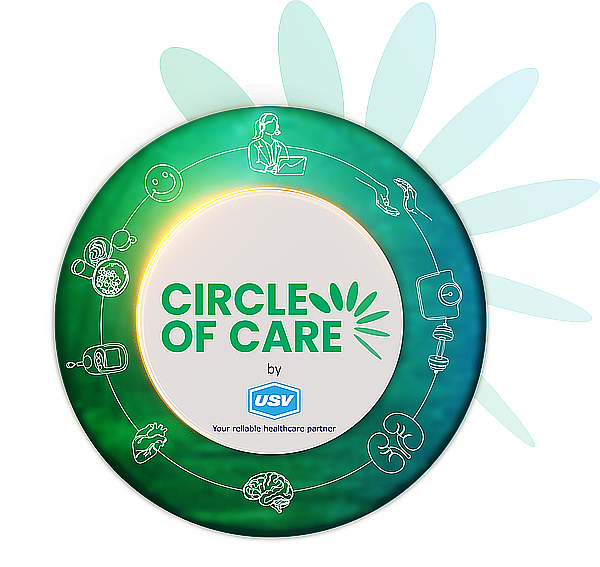
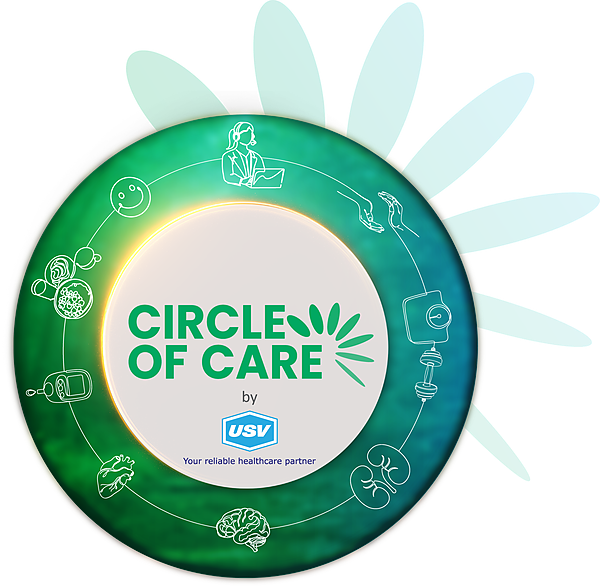
Add files via upload

diff --git a/optimize_images.py b/optimize_images.py
@@ -5,12 +5,19 @@ import os
 Image.MAX_IMAGE_PIXELS = None 
 
 def create_responsive_versions(filename, sizes, sharpen_factor=1.0):
-    """Generates multiple resized versions of an image for srcset with customizable sharpening."""
+    """Generates multiple resized versions of an image for srcset with autocrop and sharpening."""
     if not os.path.exists(filename):
         print(f"File not found: {filename}")
         return
 
-    img = Image.open(filename)
+    img = Image.open(filename).convert("RGBA")
+    
+    # Autocrop transparency to ensure 'fits properly' on web-page
+    bbox = img.getbbox()
+    if bbox:
+        img = img.crop(bbox)
+        print(f"  Autocropped {filename} to {img.size}")
+
     original_size = img.size
     print(f"Processing {filename}: {original_size} (Sharpen Factor: {sharpen_factor})")
 
@@ -30,10 +37,10 @@ def create_responsive_versions(filename, sizes, sharpen_factor=1.0):
         
         # Apply sharpening for web-sized images to maintain crispness
         if size <= 1500:
-            # We apply it twice if a higher sharpen factor is requested for fine-detailed logos
-            resized_img = resized_img.filter(ImageFilter.SHARPEN)
-            if sharpen_factor > 1.0:
-                resized_img = resized_img.filter(ImageFilter.SHARPEN)
+            # Enhanced sharpening using UnsharpMask for professional 'pop'
+            # We apply it with radius 1 and percent 50-100 based on sharpen factor
+            percent = int(50 * sharpen_factor)
+            resized_img = resized_img.filter(ImageFilter.UnsharpMask(radius=1, percent=percent, threshold=3))
             
         output_name = f"{base_name}_{size}{ext}"
         resized_img.save(output_name, optimize=True)
